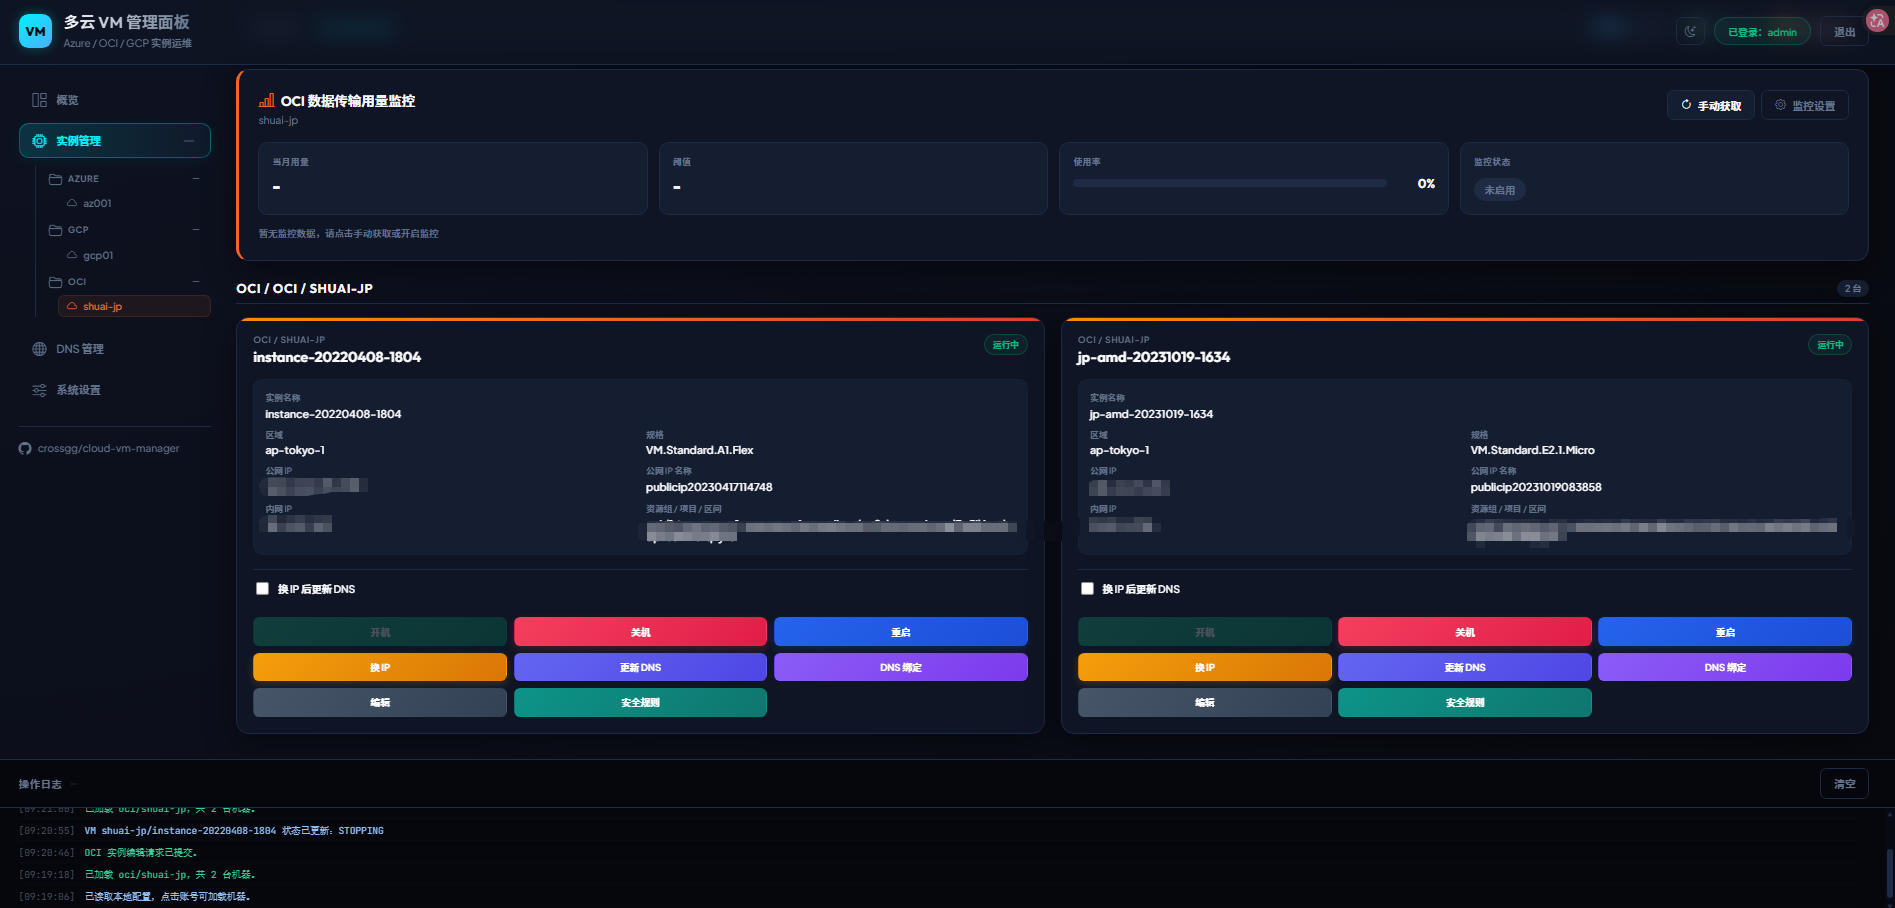
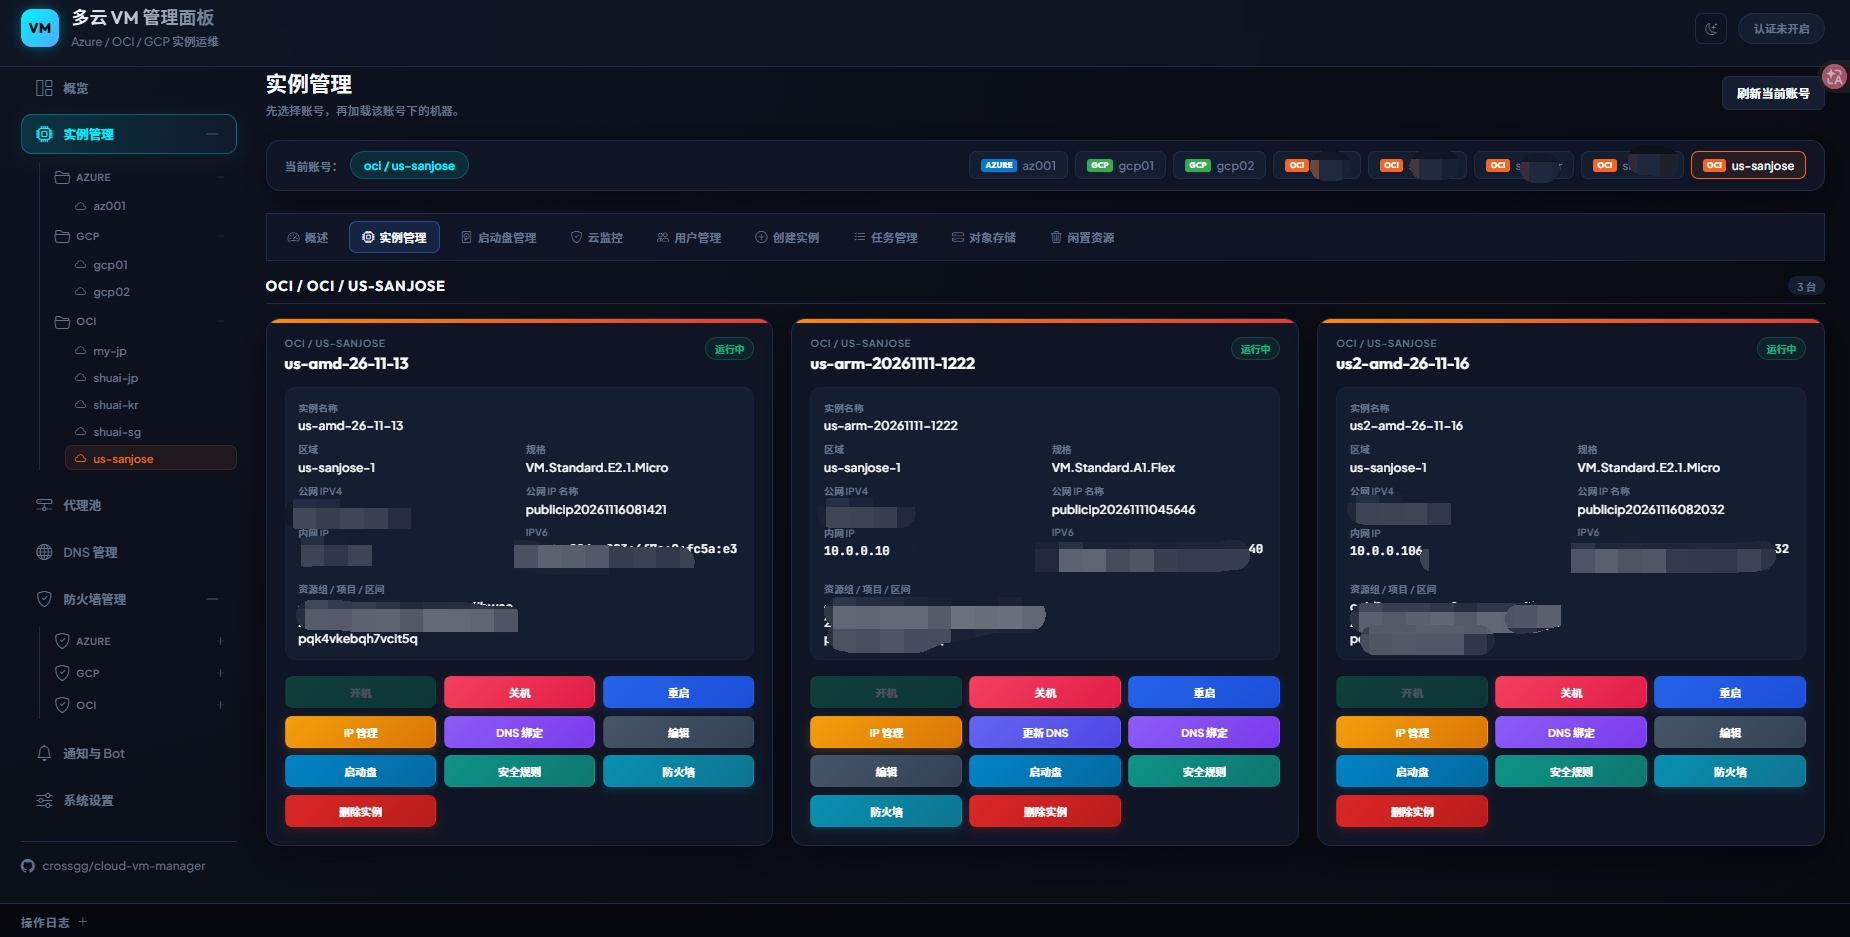
update readme

diff --git a/README.md b/README.md
@@ -95,7 +95,7 @@ docker run -d \
 
 ---
 
-## 反向代理与公网部署（宝塔 / Nginx + HTTPS）
+## ~~反向代理与公网部署~~（强烈不推荐公网部署，有漏洞可能导致信息泄露）
 
 > 完整公网安全加固参数（`BLOCK_PRIVATE_PROXY`、`TRUSTED_PROXIES`、`DISABLE_SELF_UPDATE`、仅监听 `127.0.0.1:3000` 等）请参见：**[公网部署安全指南](docs/public-deployment.md)**。
 
